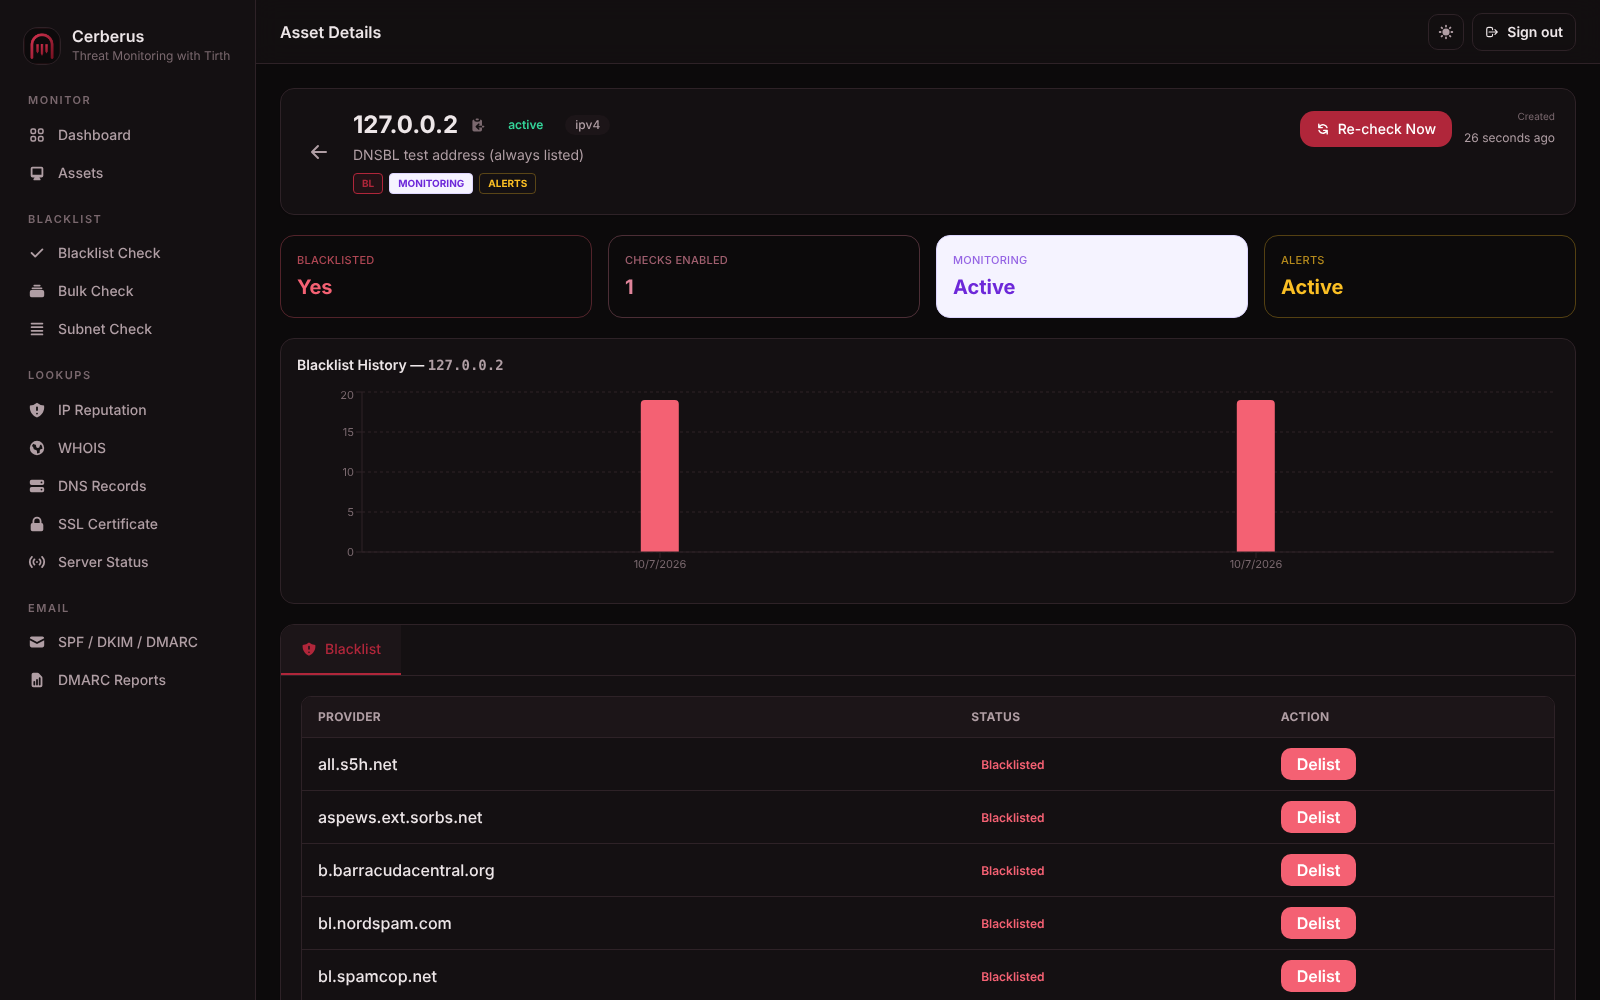
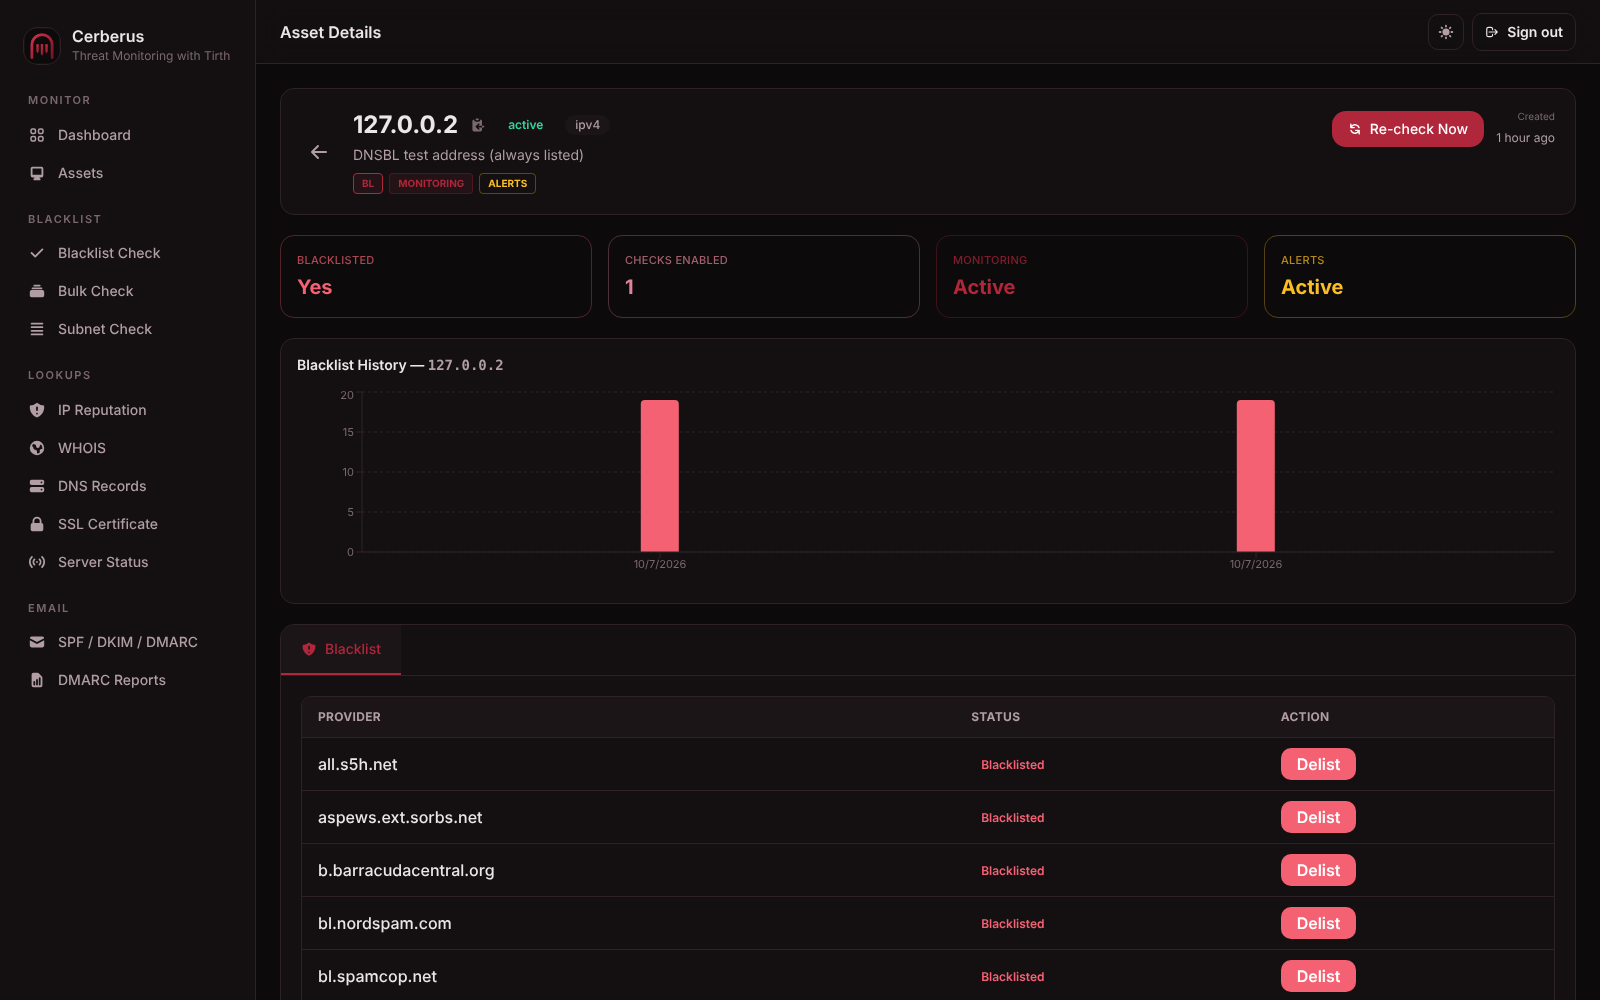
Add files via upload

Changed region(s): [[0.5625, 0.217, 0.7812, 0.341], [0.8125, 0.093, 0.9688, 0.155], [0.25, 0.155, 0.3125, 0.217]]

diff --git a/frontend/src/pages/dashboard/AssetDetail.jsx b/frontend/src/pages/dashboard/AssetDetail.jsx
@@ -159,7 +159,7 @@ export default function AssetDetail() {
                   </span>
                 ))}
                 {asset.is_monitor_enabled && (
-                  <span className="inline-flex rounded bg-violet-50 text-violet-700 px-2 py-0.5 text-[10px] font-bold border border-violet-200 ">
+                  <span className="inline-flex rounded bg-accent/10 text-accent px-2 py-0.5 text-[10px] font-bold border border-accent/30 ">
                     MONITORING
                   </span>
                 )}
@@ -263,7 +263,7 @@ function SummaryCard({ label, value, tone }) {
     rose: 'bg-bad/12 border-bad/30 text-bad ',
     emerald: 'bg-ok/12 border-ok/30 text-ok ',
     sky: 'bg-info/12 border-info/30 text-info ',
-    violet: 'bg-violet-50 border-violet-200 text-violet-700 ',
+    violet: 'bg-accent/12 border-accent/30 text-accent ',
     amber: 'bg-warn/12 border-warn/30 text-warn ',
     slate: 'bg-surface-2 border-line text-muted ',
   };

diff --git a/frontend/src/pages/dashboard/Home.jsx b/frontend/src/pages/dashboard/Home.jsx
@@ -29,7 +29,7 @@ export default function Home() {
         total: list.length,
         monitoringEnabled: list.filter((item) => item.is_monitor_enabled).length,
         alertEnabled: list.filter((item) => item.is_alert_enabled).length,
-        blacklisted: list.filter((item) => item.result?.is_blacklisted).length,
+        blacklisted: list.filter((item) => item.is_blacklisted).length,
       });
     } catch (err) {
       setError("Failed to load dashboard stats. Please check your connection.");
